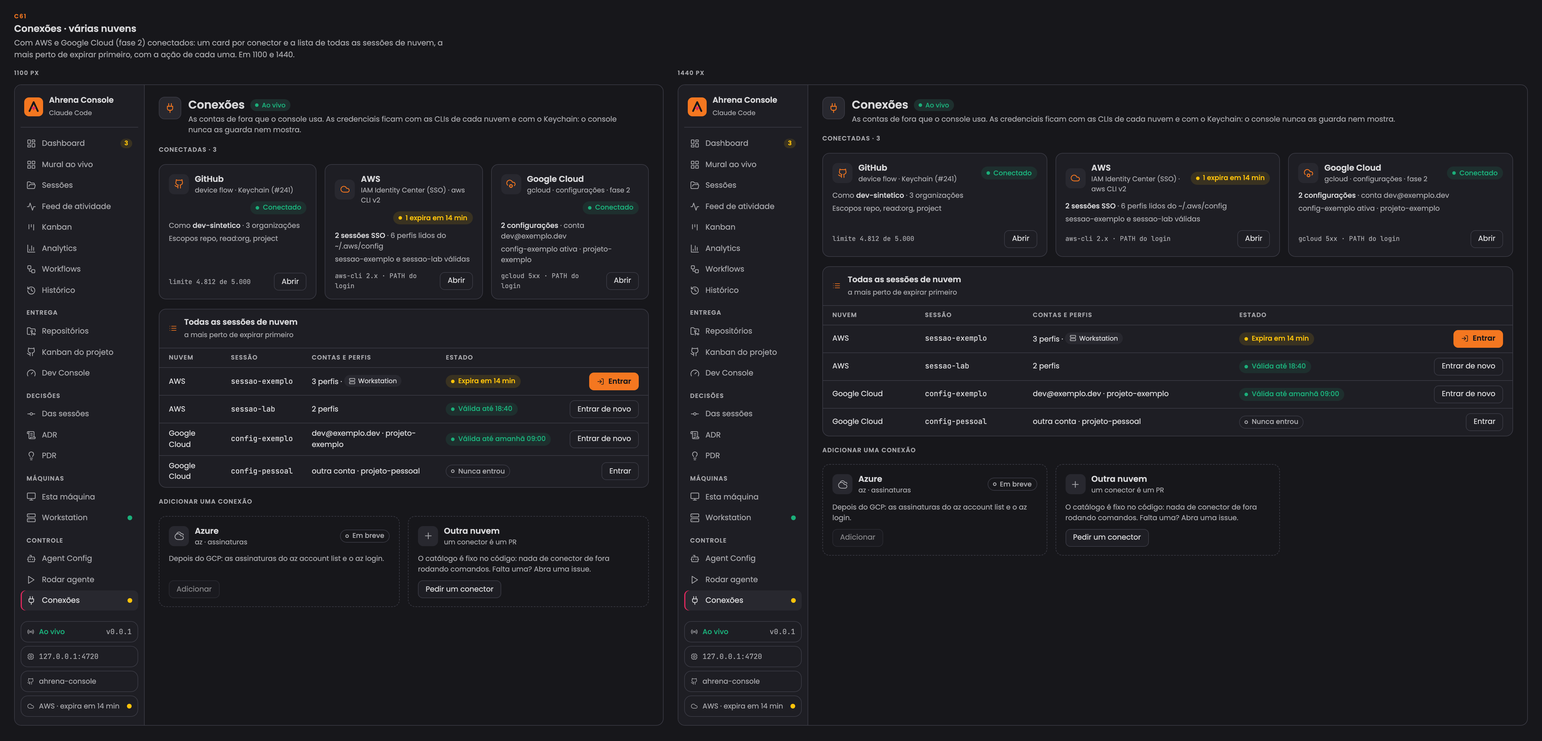
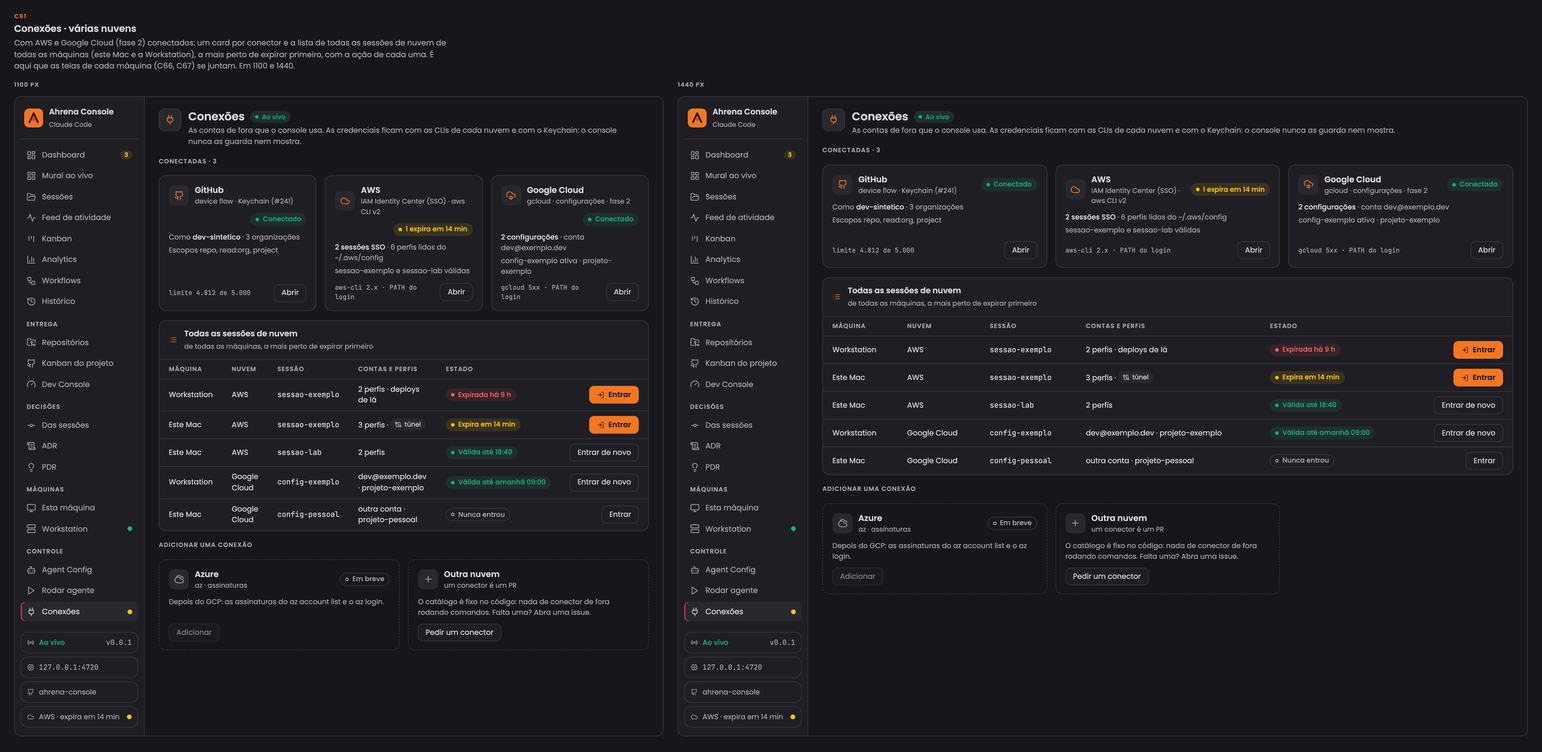
docs(277): cloud profiles per machine, C66 and C67
Each machine's núcleo reads its own cloud CLI configuration. Esta máquina and
the Workstation get a Perfis de nuvem card with Entrar; Conexões becomes the
view across machines. Logging in on the remote machine runs the aws CLI there
with a device code that the Mac shows, so the browser opens on the Mac and the
credential stays over there.

diff --git a/docs/wireframes/index.html b/docs/wireframes/index.html
@@ -2656,7 +2656,7 @@ const SESS_VALID = {
   foot: `${ic('clock')}Faltam 7 h 12 min · entrou pelo console às 10:40 · conferida há 2 min`,
 }
 const clAwsHeader = (state = 'err') => `<div class="cl-crumb">Conexões ${ic('chevron-right')}<b>AWS</b></div>
-  ${cab('cloud', 'AWS', 'IAM Identity Center · lido de ~/.aws/config há 8 s · aws-cli 2.x no PATH do login', `${state === 'err' ? clPill.expired('5 h').replace('Expirada há 5 h', '1 sessão expirada') : ''}${atualizar}`)}`
+  ${cab('cloud', 'AWS', 'IAM Identity Center · lido de ~/.aws/config há 8 s · aws-cli 2.x no PATH do login', `<div class="seg"><span class="on">Este Mac</span><span>Workstation</span></div>${state === 'err' ? clPill.expired('5 h').replace('Expirada há 5 h', '1 sessão expirada') : ''}${atualizar}`)}`
 const awsProfilesScreen = w => `${clAwsHeader()}
   <div class="stats" style="grid-template-columns:repeat(4,minmax(0,1fr))">
     ${stat('Sessões SSO', '2', 'de ~/.aws/config', 'key-round', 'var(--accent-text)')}
@@ -2713,12 +2713,13 @@ const awsStatesScreen = () => `${clAwsHeader('ok').replace('lido de ~/.aws/confi
 const multiCloudScreen = w => `${clCab()}
   <div class="olhinho">Conectadas · 3</div>
   <div class="cl-grid" style="${clCols(w, 3, 3)}">${CONN_GITHUB()}${CONN_AWS('warn')}${CONN_GCP(true)}</div>
-  <div class="cartao cl-sess"><div class="cl-sh"><span class="c-accent">${ic('list')}</span><div class="cl-sn"><b>Todas as sessões de nuvem</b><small>a mais perto de expirar primeiro</small></div></div>
-    <table class="tabela"><thead><tr><th>Nuvem</th><th>Sessão</th><th>Contas e perfis</th><th>Estado</th><th></th></tr></thead><tbody>
-      <tr><td>AWS</td><td class="mono">sessao-exemplo</td><td>3 perfis · <span class="cl-chip">${ic('server')}Workstation</span></td><td>${clPill.expiring('14 min')}</td><td style="text-align:right"><span class="btn cheio">${ic('log-in')}Entrar</span></td></tr>
-      <tr><td>AWS</td><td class="mono">sessao-lab</td><td>2 perfis</td><td>${clPill.valid('18:40')}</td><td style="text-align:right"><span class="btn contorno">Entrar de novo</span></td></tr>
-      <tr><td>Google Cloud</td><td class="mono">config-exemplo</td><td>dev@exemplo.dev · projeto-exemplo</td><td>${clPill.valid('amanhã 09:00')}</td><td style="text-align:right"><span class="btn contorno">Entrar de novo</span></td></tr>
-      <tr><td>Google Cloud</td><td class="mono">config-pessoal</td><td>outra conta · projeto-pessoal</td><td>${clPill.never()}</td><td style="text-align:right"><span class="btn contorno">Entrar</span></td></tr>
+  <div class="cartao cl-sess"><div class="cl-sh"><span class="c-accent">${ic('list')}</span><div class="cl-sn"><b>Todas as sessões de nuvem</b><small>de todas as máquinas, a mais perto de expirar primeiro</small></div></div>
+    <table class="tabela"><thead><tr><th>Máquina</th><th>Nuvem</th><th>Sessão</th><th>Contas e perfis</th><th>Estado</th><th></th></tr></thead><tbody>
+      <tr><td>Workstation</td><td>AWS</td><td class="mono">sessao-exemplo</td><td>2 perfis · deploys de lá</td><td>${clPill.expired('9 h')}</td><td style="text-align:right"><span class="btn cheio">${ic('log-in')}Entrar</span></td></tr>
+      <tr><td>Este Mac</td><td>AWS</td><td class="mono">sessao-exemplo</td><td>3 perfis · <span class="cl-chip">${ic('cable')}túnel</span></td><td>${clPill.expiring('14 min')}</td><td style="text-align:right"><span class="btn cheio">${ic('log-in')}Entrar</span></td></tr>
+      <tr><td>Este Mac</td><td>AWS</td><td class="mono">sessao-lab</td><td>2 perfis</td><td>${clPill.valid('18:40')}</td><td style="text-align:right"><span class="btn contorno">Entrar de novo</span></td></tr>
+      <tr><td>Workstation</td><td>Google Cloud</td><td class="mono">config-exemplo</td><td>dev@exemplo.dev · projeto-exemplo</td><td>${clPill.valid('amanhã 09:00')}</td><td style="text-align:right"><span class="btn contorno">Entrar de novo</span></td></tr>
+      <tr><td>Este Mac</td><td>Google Cloud</td><td class="mono">config-pessoal</td><td>outra conta · projeto-pessoal</td><td>${clPill.never()}</td><td style="text-align:right"><span class="btn contorno">Entrar</span></td></tr>
     </tbody></table></div>
   <div class="olhinho">Adicionar uma conexão</div>
   <div class="cl-grid" style="${clCols(w, 2, 3)}">${CONN_AZURE()}${CONN_OTHER()}</div>`
@@ -2848,6 +2849,50 @@ function painelConexao() {
     <div class="pn-pe"><span class="mut">○ ${largo ? 'sem dados da Workstation desde 03:11' : 'sem dados de lá desde 03:11'}</span></div>`
   return `<div class="fila">${pane(38, miolo, '● Workstation fora')}${pane(121, miolo, '● Workstation sem conexão', 'a faixa usa a largura da grade no largo · <b>sem estouro</b>')}</div>`
 }
+
+
+// ---------- cloud profiles per machine (C66 and C67, #277): each núcleo reads its own machine ----------
+// rows: [cloud, session, profiles, pillHtml, actionHtml]
+const cpTable = rows => `<table class="tabela"><thead><tr><th>Nuvem</th><th>Sessão</th><th>Perfis</th><th>Estado</th><th></th></tr></thead><tbody>
+  ${rows.map(([c, s, p, pill, act]) => `<tr><td>${c}</td><td class="mono">${s}</td><td>${p}</td><td>${pill}</td><td style="text-align:right">${act}</td></tr>`).join('')}</tbody></table>`
+const cpCard = (w, { where, note, rows, band, foot, faded }) => `<div class="cartao cl-sess${faded ? ' tm-faded' : ''}" style="${spanAt(w, 2, 3)}">
+  <div class="cl-sh"><span class="c-accent">${ic('cloud')}</span><div class="cl-sn"><b>Perfis de nuvem</b><small>${where}</small></div><div class="cl-act"><span class="pn-link" style="font-size:12px">ver todas as máquinas em Conexões ›</span></div></div>
+  ${band || ''}${cpTable(rows)}<div class="cl-sf">${foot}</div></div>`
+const CP_MAC = [['AWS', 'sessao-exemplo', '3 perfis · <span class="cl-chip">' + ic('cable') + 'o túnel da Workstation usa</span>', clPill.expired('5 h'), `<span class="btn cheio">${ic('log-in')}Entrar</span>`],
+  ['AWS', 'sessao-lab', '2 perfis', clPill.valid('18:40'), '<span class="btn contorno">Entrar de novo</span>']]
+const CP_WS = (st) => [['AWS', 'sessao-exemplo', '2 perfis · deploys de lá', st === 'done' ? clPill.valid('16:20') : st === 'pending' ? clPill.running() : clPill.expired('9 h'),
+  st === 'pending' ? `<span class="btn contorno">${ic('x')}Cancelar</span>` : st === 'done' ? '<span class="btn contorno">Entrar de novo</span>' : `<span class="btn cheio">${ic('log-in')}Entrar</span>`],
+  ['Google Cloud', 'config-exemplo', 'projeto-exemplo', clPill.valid('amanhã 09:00'), '<span class="btn contorno">Entrar de novo</span>']]
+// C66 · Esta máquina
+const thisMachineProfiles = w => `${cab('monitor', 'Esta máquina', 'mac-exemplo · macOS 26 · 12 núcleos (8 P + 4 E) · 36 GB · lido há 4 s', hourToggle)}
+  <div class="tm-grid" style="${gridCols(w)}">${cpCard(w, { where: 'deste Mac · lidos do ~/.aws/config e das configurações do gcloud daqui', rows: CP_MAC, foot: `${ic('info')}Entrar abre o navegador deste Mac, como em Conexões (C59).` })}</div>
+  <div class="tm-rc-clip" style="max-height:260px"><div>${thisMachineScreen(w).slice(thisMachineScreen(w).indexOf('<div class="stats"'))}</div></div>`
+// C67 · Workstation: read from the núcleo over there, login by device code shown here
+const wsHead = () => mcHeader('up', 'lido há 6 s')
+const wsPending = `<div class="faixa tm-rc-band"><span class="ic">${ic('loader-2')}</span><div class="tm-rc-text"><b>Entrando na AWS na Workstation…</b> A aws CLI de lá espera você confirmar este código no navegador <b>deste Mac</b>:
+    <div style="display:flex;gap:12px;align-items:center;margin-top:10px"><span class="mono" style="font-size:22px;letter-spacing:.12em;color:var(--text);font-weight:600;padding:6px 14px;border:1px solid var(--border);border-radius:8px;background:var(--bg)">WXYZ-1234</span><span class="btn cheio">${ic('external-link')}Abrir a página de login</span><span class="btn contorno">${ic('copy')}Copiar o código</span></div>
+    <div class="tm-rc-time"><span class="tm-stack"><i style="width:22%;background:var(--status-waiting-dot)"></i></span><span>1:06 de 5:00 · o código vale 10 min</span></div>
+    <div class="tm-rc-cmd">Roda lá: aws sso login --sso-session sessao-exemplo --use-device-code --no-browser</div></div></div>`
+const wsDone = `<div class="faixa tm-rc-ok"><span class="ic">${ic('check-circle-2')}</span><div><b>A Workstation entrou na AWS às 08:20.</b> A sessão de lá vale até 16:20. A credencial ficou na aws CLI de lá; nada passou por este Mac.</div></div>`
+const wsFallback = `<div class="faixa tm-rc-band mc-neutral"><span class="ic">${ic('terminal-square')}</span><div class="tm-rc-text"><b>O núcleo de lá não sabe entrar sozinho.</b> A aws CLI da Workstation é anterior ao login por código (ou o núcleo de lá é de uma versão antiga). Rode num terminal de lá:
+    <div class="tm-config">aws sso login --sso-session sessao-exemplo --use-device-code</div></div><div class="tm-rc-actions"><span class="btn contorno">${ic('copy')}Copiar</span></div></div>`
+const wsProfiles = (w, st) => `${wsHead()}<div class="tm-grid" style="${gridCols(w)}">${cpCard(w, {
+  where: 'da Workstation · lidos pelo núcleo de lá, pelo túnel', rows: CP_WS(st), faded: st === 'down',
+  band: st === 'pending' ? wsPending : st === 'done' ? wsDone : st === 'fallback' ? wsFallback : '',
+  foot: st === 'down' ? `${ic('wifi-off')}Sem conexão: estes são os de 03:11. Entrar volta quando a Workstation responder.` : `${ic('info')}O túnel usa o perfil-dev <b>deste Mac</b> (C62); estes são os perfis que a Workstation usa para ela mesma.` })}</div>
+  ${mcRest(w, false)}`
+const cpScreens = () => `<div class="tm-rc">
+  ${rcRow([['1 · a sessão de lá expirou · 1100 px', clFrame(1100, 'machine-ws', wsProfiles(1100, 'offer'), 'ok', 'err')], ['1 · 1440 px', clFrame(1440, 'machine-ws', wsProfiles(1440, 'offer'), 'ok', 'err')]], [
+    '<b>Cada máquina tem os seus perfis</b>: o núcleo de cada uma lê o ~/.aws/config e o gcloud dela. O da Workstation chega pelo leitor remoto, como o resto da tela.',
+    'O túnel depende de um perfil <b>deste Mac</b> (o SSM sai daqui); os perfis da Workstation são os que ela usa para deploy, dados etc. A tela diz isso no pé do card.'])}
+  ${rcRow([['2 · entrando, com o código · 1100 px', clFrame(1100, 'machine-ws', wsProfiles(1100, 'pending'), 'ok', 'err')], ['3 · entrou · 1100 px', clFrame(1100, 'machine-ws', wsProfiles(1100, 'done'), 'ok', 'ok')]], [
+    '<b>Decisão: o login de lá é por código, mostrado aqui.</b> O núcleo de lá roda a aws CLI com <code>--use-device-code --no-browser</code>; não abre navegador lá, porque o núcleo é um serviço sem tela e você está no Mac.',
+    'Da saída, o núcleo de lá tira <b>só</b> a URL de verificação (precisa ser de um domínio da AWS) e o código (formato fixo); o resto vai para o log de lá. É o mesmo padrão do código do GitHub na C40.',
+    '"Abrir a página de login" abre a URL no navegador deste Mac. A credencial nasce na aws CLI de lá e nunca passa por aqui.'])}
+  ${rcRow([['4 · núcleo ou CLI antigos lá: o comando · 1100 px', clFrame(1100, 'machine-ws', wsProfiles(1100, 'fallback'), 'ok', 'err')], ['5 · sem conexão · 1100 px', clFrame(1100, 'machine-ws', wsProfiles(1100, 'down').replace(mcHeader('up', 'lido há 6 s'), mcHeader('down', 'última leitura às 03:11')), 'off', 'err')]], [
+    'Sem o login por código lá, a tela <b>mostra o comando</b> para rodar num terminal de lá, com Copiar. Nada roda.',
+    'Sem conexão, o card fica com a última leitura e sem Entrar.'])}
+</div>`
 
 // A9 and A10 · the tray: the Nuvens block and the Workstation's connection
 const trayHead = `${mi('Ahrena Console', 'cab')}${mi(`${ponto('completed')}Núcleo de pé · 127.0.0.1:4720`, 'off')}${msep}`
@@ -3019,6 +3064,9 @@ const TELAS = [
     n: N(['Nada.'], ['O motivo vem do conector: o perfil vinculado (cloudProfile) está expirado. Não é preciso rodar nada para saber.', 'A linha mono mostra os dois comandos antes do clique: o login fixo da aws CLI e o connection.start do arquivo.', 'Pergunta 3 da 0013: um clique para os dois (recomendado), ou dois botões.']) },
   { id: 'console-workstation-connection-states', cod: 'C64', nome: 'Workstation · subindo, parando e parada', sub: 'O andamento do clique da C63 (entrando na AWS, depois subindo o túnel), a confirmação de Parar o túnel e o estado parado por você, que não é queda. Em 1100.', html: () => mcStatesScreens(), n: '' },
   { id: 'console-workstation-connection-failing', cod: 'C65', nome: 'Workstation · por que caiu, e sem connection', sub: 'O aviso antes da queda (a sessão expira em 14 min), os motivos de uma falha em palavras simples, cada um com de onde veio e a ação certa, e a máquina que só tem o reconnect da #244, com o Onde roda desconhecido. Em 1100.', html: () => mcFailScreens(), n: '' },
+  { id: 'console-this-machine-cloud-profiles', cod: 'C66', nome: 'Esta máquina · Perfis de nuvem', sub: 'Feature Contas de nuvem (#277). Os perfis de nuvem são de cada máquina: a tela Esta máquina ganha o card Perfis de nuvem, com as sessões deste Mac, o estado e Entrar ali mesmo. O link leva a Conexões, que é a visão de todas as máquinas. Em 1100 e 1440.', html: () => `<div class="fila">${bothWidths(w => clFrame(w, 'machine-local', thisMachineProfiles(w), 'ok', 'err'))}</div>`,
+    n: N(['Nada.'], ['O mesmo dado de Conexões › AWS com o seletor em Este Mac (C58): os dois lugares leem o mesmo estado do núcleo daqui, e Entrar num muda o outro sem recarregar.', 'O chip diz que o túnel da Workstation depende desta sessão.']) },
+  { id: 'console-workstation-cloud-profiles', cod: 'C67', nome: 'Workstation · Perfis de nuvem', sub: 'Os perfis da própria Workstation, lidos pelo núcleo de lá. Entrar inicia a sessão lá: a aws CLI de lá roda o login por código, e o código aparece aqui para você confirmar no navegador deste Mac. Sem esse login lá, a tela mostra o comando. Em 1100 e 1440.', html: () => cpScreens(), n: '' },
   { id: 'console-dev-console', cod: 'C27', nome: 'Dev Console', sub: 'O placar de um contexto (um conjunto de repositórios): prontos para você, CI rodando, CI vermelho, sessões trabalhando e quem precisa de você; a fila de merge na ordem; o quadro das issues em seis colunas e o que foi mesclado. Em 1440 as seis colunas lado a lado; em 1100, quatro e duas embaixo, para nada rolar na horizontal.', html: () => `<div class="fila">${bothWidths(w => frameAt(w, 'dev', devConsoleScreen(w)))}</div>`,
     n: N(['Do Dev Console antigo: o seletor de contexto, a aba Fila de merge com todos os contextos, o placar de 5 números, "Depende de você", a fila na ordem de merge com os não prontos fechados, o quadro de 6 colunas com o critério de cada uma, e "mesclados nas últimas 24 h".'], ['Derivado no núcleo, sem sessão de PM gravando estado: "Delegada" é uma sessão aberta no branch da issue sem push, e "Depende de você" vem de /api/atencao e das decisões sugeridas.', '"Bloqueada" é a etiqueta blocked da issue; plano em andamento e a trilha da release ficaram de fora, porque dependiam de anotação.', 'O antigo rolava na horizontal (o quadro tinha 1110 px mínimos); aqui o quadro dobra em 1100.']) },
   { id: 'console-adrs', cod: 'C28', nome: 'ADR · decisões de arquitetura', sub: 'Os registros de decisão (ADRs) de todos os repositórios da conta, por repositório, com busca no texto e filtro por status. Em 1100 (a janela do app) e 1440.', html: () => `<div style="display:flex;flex-direction:column;gap:12px"><div class="rotulo">1100 px</div>${frameAt(1100, 'adrs', telaAdrs(false))}<div class="rotulo">1440 px</div>${frameAt(1440, 'adrs', telaAdrs(true))}</div>`,
@@ -3059,7 +3107,7 @@ const TELAS = [
     </div>`, n: '' },
   { id: 'console-clouds-states', cod: 'C60', nome: 'Conexões · sem nuvem, e os estados da AWS', sub: 'Sem nenhuma nuvem configurada: o card da AWS diz como criar um perfil com SSO, sem apontar para conta de ninguém (regra 5). Embaixo, o que não é o caminho feliz: sem a aws CLI, a v1, o ~/.aws/config com erro, um nome que não vai para a linha de comando, o estado desconhecido e o login que não terminou. Em 1100.', html: () => `<div style="display:flex;flex-direction:column;gap:12px"><div class="width-col"><div class="rotulo">1100 px · nenhuma nuvem configurada</div>${clFrame(1100, 'connections', connectionsNoCloud(), 'ok', 'none')}</div><div class="width-col"><div class="rotulo">1100 px · os estados da AWS</div>${clFrame(1100, 'connections', awsStatesScreen(), 'ok', 'warn')}</div></div>`,
     n: N(['Nada.'], ['Nenhum botão morto: sem CLI, sem perfil ou com o arquivo inválido, Entrar não aparece e o card diz o que fazer.', 'O nome que vai para a linha da aws passa por um padrão estreito; fora dele, o perfil aparece sem Entrar.']) },
-  { id: 'console-multi-cloud', cod: 'C61', nome: 'Conexões · várias nuvens', sub: 'Com AWS e Google Cloud (fase 2) conectados: um card por conector e a lista de todas as sessões de nuvem, a mais perto de expirar primeiro, com a ação de cada uma. Em 1100 e 1440.', html: () => `<div class="fila">${bothWidths(w => clFrame(w, 'connections', multiCloudScreen(w), 'ok', 'warn'))}</div>`,
+  { id: 'console-multi-cloud', cod: 'C61', nome: 'Conexões · várias nuvens', sub: 'Com AWS e Google Cloud (fase 2) conectados: um card por conector e a lista de todas as sessões de nuvem de todas as máquinas (este Mac e a Workstation), a mais perto de expirar primeiro, com a ação de cada uma. É aqui que as telas de cada máquina (C66, C67) se juntam. Em 1100 e 1440.', html: () => `<div class="fila">${bothWidths(w => clFrame(w, 'connections', multiCloudScreen(w), 'ok', 'warn'))}</div>`,
     n: N(['Nada.'], ['O mesmo molde para toda nuvem: a configuração da CLI dela (perfis da aws, configurações do gcloud, assinaturas do az), o estado da sessão e o login da CLI.', 'A lista junta as nuvens para responder "o que vai expirar"; o detalhe de cada uma continua no card dela.', 'Google Cloud e Azure são fases seguintes; o desenho mostra que cabem sem mudar a tela.']) },
 ]
 
@@ -3086,7 +3134,7 @@ function montar() {
     <li><b>Onde o grafo vive (#146, a aprovar):</b> a proposta é um detalhe aberto pelo pé do card Subagentes, no lugar dos cards, como as decisões (P11). Dentro do card não cabe; numa seção própria, empurra o resto para baixo.</li>
     <li><b>Telemetria e Dev Console no app (decisão 0008, a aprovar):</b> cada máquina se mede com o próprio núcleo; o do Mac lê o da Workstation pela porta que o túnel encaminha; o app só mostra, sem subir túnel nem abrir login (A6, A7, C24 a C27). A reconexão revê esse ponto na decisão 0012. A barra lateral ganha Dev Console e a seção Máquinas, que aparece em todas as telas.</li>
     <li><b>Reconectar a máquina remota (#244, decisão 0012):</b> com <code>reconnect</code> no machines.json, o núcleo do Mac roda o comando que você escreveu, sem shell, um por vez e com tempo limite; a tela espera o login no navegador e relê a remota ao terminar (C50, A8). Aprovado em 20/10, com a saída só no log.</li>
-    <li><b>Nuvens e a conexão da máquina (#277, #278, decisão 0013, a aprovar):</b> as contas de nuvem entram em Conexões, como conectores ao lado do GitHub (C57 a C61); o túnel vira a <code>connection</code> da máquina no machines.json, com Subir, Parar, o perfil de nuvem que ele exige e o motivo da queda em palavras simples (C62 a C65, A9, A10, P14). Perguntas em aberto: de onde vem o "até quando" da sessão SSO (variante A, só o expiresAt do cache da CLI, ou B, sem abrir o cache), Conexões ou uma seção Nuvens, um clique para entrar e subir, e Parar já na fase 1.</li>
+    <li><b>Nuvens e a conexão da máquina (#277, #278, decisão 0013, a aprovar):</b> as contas de nuvem entram em Conexões, como conectores ao lado do GitHub (C57 a C61); o túnel vira a <code>connection</code> da máquina no machines.json, com Subir, Parar, o perfil de nuvem que ele exige e o motivo da queda em palavras simples (C62 a C65, A9, A10, P14). Os perfis de nuvem são de cada máquina: Esta máquina e a Workstation ganham o card Perfis de nuvem, e o login de lá é por código mostrado aqui (C66, C67). Perguntas em aberto: de onde vem o "até quando" da sessão SSO (variante A, só o expiresAt do cache da CLI, ou B, sem abrir o cache), Conexões ou uma seção Nuvens, um clique para entrar e subir, e Parar já na fase 1.</li>
     <li><b>Backlog:</b> Feed de atividade, Analytics completo, Workflows e o detalhe com o grafo de agentes estavam para depois da entrega. Entraram aqui a pedido do dono; o PM decide se viram itens da 0.0.1.</li></ol></section>`
   indice.innerHTML = htmlI; main.innerHTML = htmlM
   if (window.lucide) lucide.createIcons()

diff --git a/docs/decisoes/0013-cloud-connectors-and-machine-connection.md b/docs/decisoes/0013-cloud-connectors-and-machine-connection.md
@@ -1,6 +1,6 @@
 # 0013 · Conectores de nuvem e a conexão da máquina remota: o console entra pelas CLIs das nuvens, sem guardar credencial
 
-- **Status:** proposta, esperando o ok do Fernando nos wireframes C57 a C65, A9, A10 e P14
+- **Status:** proposta, esperando o ok do Fernando nos wireframes C57 a C67, A9, A10 e P14
 - **Data:** 2026-10-21
 - **Issues:** [#277](https://github.com/ahrenatechnology/ahrena-console/issues/277) (contas de nuvem) e [#278](https://github.com/ahrenatechnology/ahrena-console/issues/278) (a conexão da máquina remota)
 - **Revê:** em [0008](0008-machine-telemetry-and-dev-console.md), seção 6, "abrir login de nuvem" (passa a ser do console, só pela CLI da nuvem) e "subir, parar o túnel" (passa a ser do console, só pelo comando do usuário); em [0012](0012-remote-reconnect.md), seção 3, "o núcleo não lê a saída" (passa a procurar uma lista fechada de padrões no trecho do log da execução, sem mostrar nada dele)
@@ -34,6 +34,20 @@ A rota recebe um identificador (o `id` da máquina, o nome da sessão SSO) e o n
 - **Entrar** roda `aws sso login --sso-session <nome>` (ou `--profile <nome>` no formato antigo), com tempo limite de 5 min. A página que abre no navegador é da pessoa: o console não lê, não preenche e não acompanha, e só diz "aguardando o login no navegador" (como a 0012).
 - **Um login vale para todos os perfis da mesma sessão**, e a tela diz isso.
 - **GCP e Azure** entram depois no mesmo molde: `gcloud config configurations list` e `gcloud auth login`; `az account list` e `az login`.
+
+### 2a. Os perfis são de cada máquina
+
+O núcleo de **cada máquina** lê a configuração das CLIs **dela** (o `~/.aws/config` do Mac é um, o da Workstation é outro). O do Mac lê o da Workstation pelo leitor remoto que já existe (0008, seção 2: `GET /api/connectors` do núcleo de lá, pela porta do túnel), como lê o resto da tela.
+
+- **Na tela de cada máquina** (Esta máquina, Workstation), o card **Perfis de nuvem** mostra as sessões daquela máquina, o estado e Entrar ali mesmo (C66, C67).
+- **Conexões** é a visão de todas as máquinas: a lista de sessões ganha a coluna Máquina (C61), e a página da AWS tem o seletor Este Mac / Workstation (C58). Os dois lugares leem o mesmo estado; Entrar num muda o outro.
+- **O túnel depende de um perfil do Mac** (o SSM sai daqui): o `cloudProfile` da seção 4 aponta sempre para um perfil da máquina que roda o `connection.start`, este Mac. Os perfis da Workstation são os que ela usa para ela mesma (deploy, dados).
+
+**Entrar numa máquina remota é por código, mostrado no Mac.** O Mac pede ao núcleo de lá (`POST /api/machines/<id>/connectors/aws/sessions/<nome>/login`, de mesma origem aqui; o núcleo do Mac repassa só o nome, pelo túnel, como pedido local lá). O núcleo de lá roda `aws sso login --sso-session <nome> --use-device-code --no-browser`, da mesma lista fixa da seção 1, e da saída tira **só** duas coisas, por padrão estrito: a URL de verificação (precisa ser `https` num domínio da AWS) e o código do usuário (`^[A-Z0-9]{4}-[A-Z0-9]{4}$`). O resto vai para o log de lá. O Mac mostra o código e "Abrir a página de login", que abre a URL no navegador **deste Mac** (C67, estado 2). A credencial nasce na aws CLI de lá e nunca passa pelo Mac.
+
+- **Por que não abrir o navegador lá**: o núcleo de lá é um serviço sem tela (ou a tela de lá não é a que a pessoa está olhando); um navegador aberto lá esperaria por ninguém. É o mesmo padrão do código do GitHub na 0011 (C40).
+- **O código aparece na /ui**, que a 0012 evita para a saída de comando: é a exceção estreita de um campo de formato fixo, de vida curta (10 min), que só vale com o login da pessoa no navegador, e que ela precisa ver. Nada mais da saída sai do log.
+- **Sem login por código lá** (aws CLI antiga, ou núcleo de lá numa versão sem a rota), a tela **mostra o comando** para rodar num terminal de lá, com Copiar, e nada roda (C67, estado 4).
 
 ### 3. O estado da sessão, e a pergunta do "até quando"
 
@@ -75,7 +89,8 @@ O resultado vai na leitura da máquina (`placement: { provider, kind, region, zo
 ### 6. Rotas
 
 - `GET /api/connectors`: os conectores, o estado de cada um e, por conta ou sessão, o estado, o `expiresAt` (variante A), os perfis e o login em andamento. Nunca token, segredo ou saída de comando.
-- `POST` e `DELETE /api/connectors/aws/sessions/<nome>/login`: Entrar e Cancelar.
+- `POST` e `DELETE /api/connectors/aws/sessions/<nome>/login`: Entrar e Cancelar, nesta máquina.
+- `POST` e `DELETE /api/machines/<id>/connectors/aws/sessions/<nome>/login`: o mesmo na máquina remota, repassado ao núcleo de lá; o estado traz `deviceCode: { verificationUri, userCode, expiresAt }` enquanto espera.
 - `POST /api/machines/<id>/connection/start`, `/stop`, `/reconnect`, e `DELETE /api/machines/<id>/connection` (Cancelar o que roda). `POST /api/machines/<id>/reconnect` continua como alias da 0012.
 - Todas as escritas são **de mesma origem** (0003), como as da 0012: `Origin` igual ao do núcleo e `Host` em loopback; a bandeja chama sem `Origin`, como já faz. Outro `Origin` recebe 403 e nada roda, com teste.
 - As mudanças saem em `/api/mudancas` (`{ type: 'connector', key: 'aws' }`, `{ type: 'alert', key: '<id>:connection' }`).
@@ -83,7 +98,8 @@ O resultado vai na leitura da máquina (`placement: { provider, kind, region, zo
 ### 7. Onde aparece
 
 - **Barra lateral**: Conexões fica em Controle (como na #241), agora com um ponto que resume o pior estado dos conectores. As contas de nuvem **não** ganham seção própria agora (ver as alternativas). A Workstation, em Máquinas, mostra no ponto o estado da conexão.
-- **Conexões** (C57 a C61): o catálogo, o conector AWS com as sessões e os perfis, o login em andamento, os estados.
+- **Conexões** (C57 a C61): o catálogo, o conector AWS com as sessões e os perfis, o login em andamento, os estados, e a lista de sessões de todas as máquinas.
+- **Perfis de nuvem** na tela de cada máquina (C66, C67), com o login da Workstation por código.
 - **Tela da máquina** (C62 a C65): os cards Conexão e Onde roda no topo da C25; as faixas de falha com o motivo e a ação certa.
 - **Bandeja** (A9, A10): o bloco Nuvens e a linha da conexão em Máquinas; as notificações de sessão perto de expirar, expirada, e de queda com o motivo.
 - **Painel da sessão** (P14): uma linha no topo quando a sessão roda numa máquina cuja conexão caiu.

diff --git a/docs/wireframes/README.md b/docs/wireframes/README.md
@@ -4,7 +4,7 @@ Wireframes de todas as telas da 0.0.1, para aprovação antes de construir:
 
 - **Painel lateral** (mod do Claude Code, decisão [0004](../decisoes/0004-painel-da-sessao.md)): P0 a P13, em 38 e 121 colunas, com as decisões da sessão (P9 e P10) e o grafo da sessão com os subagentes (P11 a P13, issue #146), e a sessão numa máquina sem conexão (P14, issue #278).
 - **App de bandeja** (Tauri, decisão [0005](../decisoes/0005-app-desktop.md)): A1 a A5, e A6 e A7 com o bloco Máquinas (decisão [0008](../decisoes/0008-machine-telemetry-and-dev-console.md)), e A8 com o Reconectar da máquina remota (issue #244, decisão 0012), e A9 e A10 com as nuvens e a conexão da Workstation (issues #277 e #278, decisão 0013).
-- **Console** (artefato, que também é a janela do app): C1 a C23, com Feed, Analytics, Workflows (grafo de agentes e o laço dev/review), Agent Config, Rodar agente, Decisões (C20 e C21), Repositórios (C22 e C23), as máquinas (C24 Esta máquina, C25 Workstation, C26 sem conexão) o Dev Console (C27) e as ADRs dos repositórios (C28 a C31, issue #174) e as instruções dos agentes de cada repositório (C32 e C33, issue #183), o fluxo para instalar o Ahrena Framework num repositório por PR (C34 a C37, issue #184) as decisões de produto, PDR (C38), com o [estudo](../repo-instructions-install-adrs-study.md), e Reconectar a Workstation pelo comando do machines.json (C50, issue #244), e a aba Entregas do Analytics, com o ritmo de entrega de cada repositório e projeto ao lado do esforço do Claude (C54 a C56, issue #266), as contas de nuvem em Conexões, com o catálogo de conectores, os perfis da AWS e o estado da sessão SSO (C57 a C61, issue #277), e a conexão da Workstation como conexão de primeira classe, com onde ela roda, o túnel, a sessão de nuvem e o motivo da queda (C62 a C65, issue #278), as duas pela decisão [0013](../decisoes/0013-cloud-connectors-and-machine-connection.md). As telas novas aparecem em 1100 px, a largura da janela do app, e em 1440 px. A separação entre "Precisa de você" (a sessão trava) e "Ociosa" (a vez é sua), da issue #245, muda o Dashboard, Mural, Sessões, Detalhe (Conversa e Linha do tempo), Feed, os dois Kanbans, Dev Console, Workstation, a bandeja (A1 a A8), as notificações e a legenda do painel (P0); essas telas do console aparecem em 1100 px.
+- **Console** (artefato, que também é a janela do app): C1 a C23, com Feed, Analytics, Workflows (grafo de agentes e o laço dev/review), Agent Config, Rodar agente, Decisões (C20 e C21), Repositórios (C22 e C23), as máquinas (C24 Esta máquina, C25 Workstation, C26 sem conexão) o Dev Console (C27) e as ADRs dos repositórios (C28 a C31, issue #174) e as instruções dos agentes de cada repositório (C32 e C33, issue #183), o fluxo para instalar o Ahrena Framework num repositório por PR (C34 a C37, issue #184) as decisões de produto, PDR (C38), com o [estudo](../repo-instructions-install-adrs-study.md), e Reconectar a Workstation pelo comando do machines.json (C50, issue #244), e a aba Entregas do Analytics, com o ritmo de entrega de cada repositório e projeto ao lado do esforço do Claude (C54 a C56, issue #266), as contas de nuvem em Conexões, com o catálogo de conectores, os perfis da AWS e o estado da sessão SSO (C57 a C61, issue #277), os perfis de nuvem de cada máquina, com o login da Workstation por código (C66 e C67, issue #277), e a conexão da Workstation como conexão de primeira classe, com onde ela roda, o túnel, a sessão de nuvem e o motivo da queda (C62 a C65, issue #278), as duas pela decisão [0013](../decisoes/0013-cloud-connectors-and-machine-connection.md). As telas novas aparecem em 1100 px, a largura da janela do app, e em 1440 px. A separação entre "Precisa de você" (a sessão trava) e "Ociosa" (a vez é sua), da issue #245, muda o Dashboard, Mural, Sessões, Detalhe (Conversa e Linha do tempo), Feed, os dois Kanbans, Dev Console, Workstation, a bandeja (A1 a A8), as notificações e a legenda do painel (P0); essas telas do console aparecem em 1100 px.
 
 A referência é o Claude Code Agent Monitor. Cada tela diz o que veio dele e onde diverge.
 
